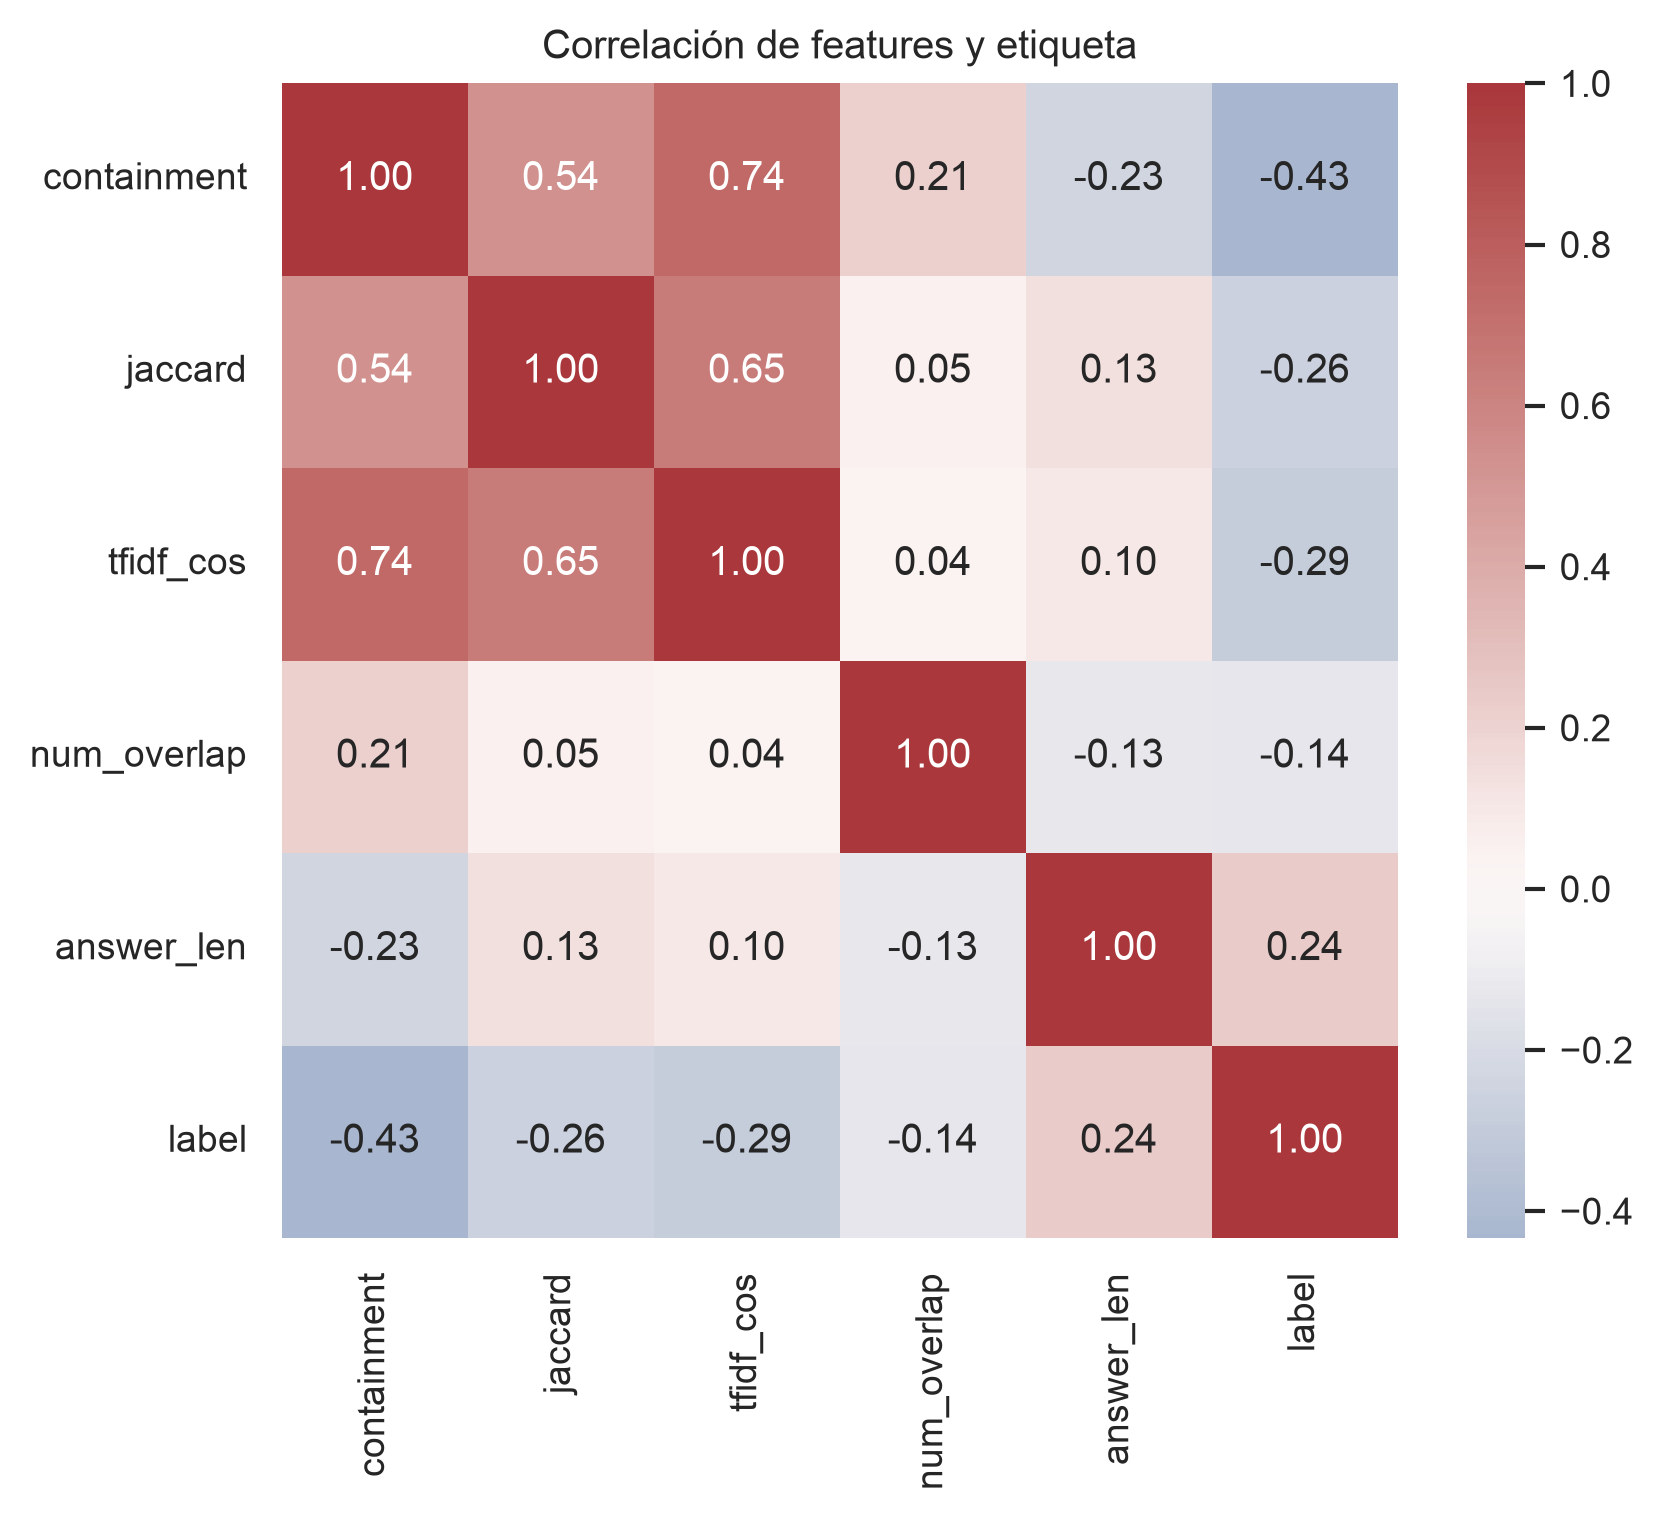
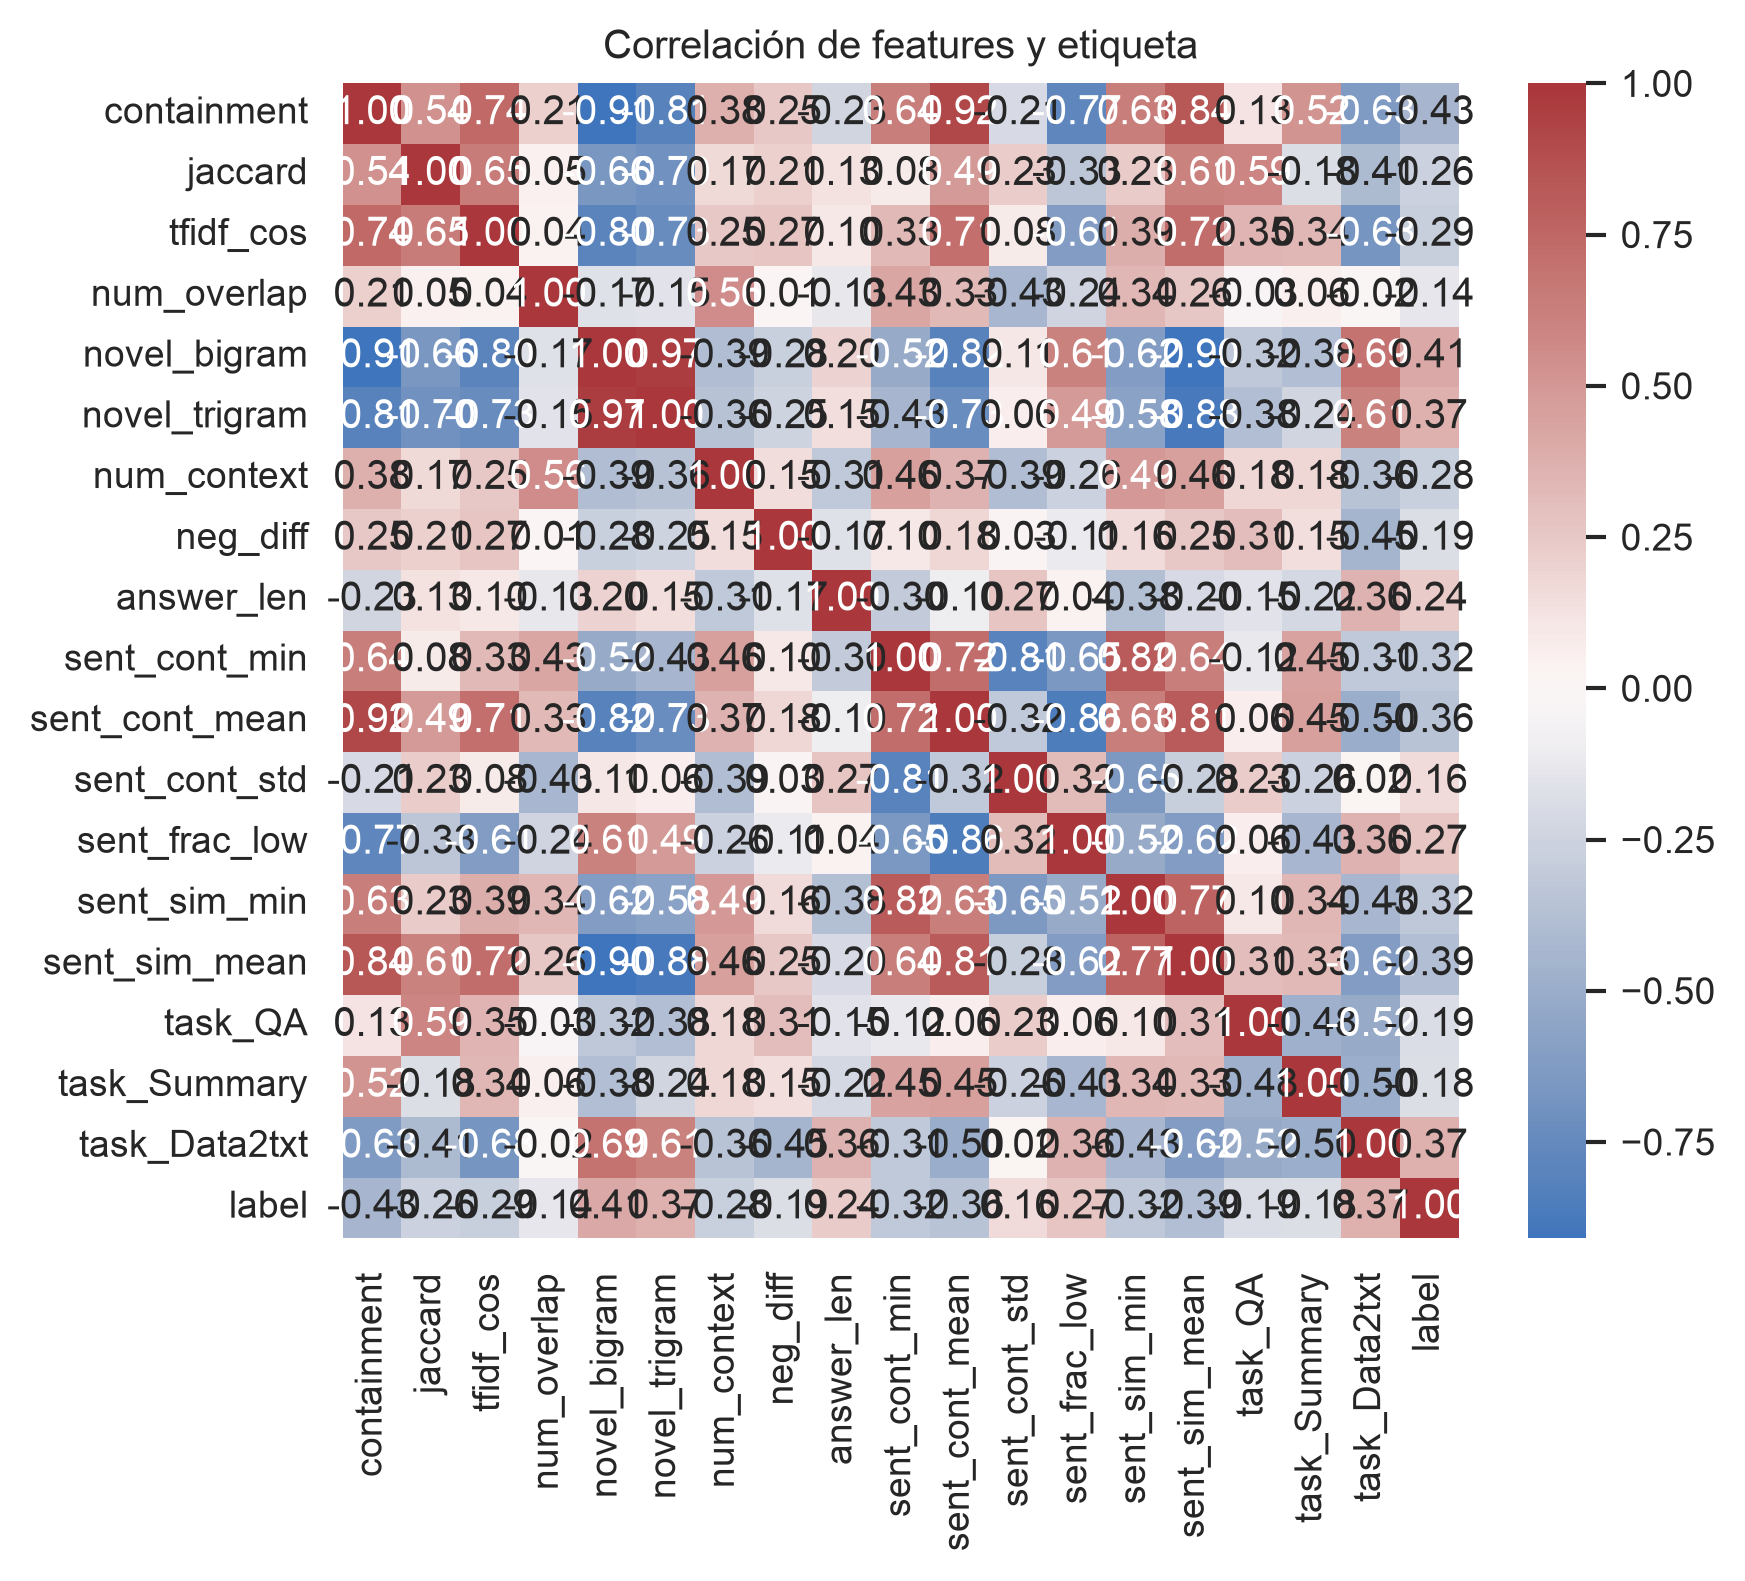
fix: regenera figuras EDA obsoletas (eran de la época de 5 features)
eda_separabilidad_features y eda_correlacion mostraban solo las 5 features
escalares originales; ahora reflejan las 18. En la separabilidad se excluyen las
one-hot de tarea (binarias, su KDE no informa) y se da eje Y independiente por
panel para que cada distribución se lea a su escala. Recompila el informe.

diff --git a/scripts/visualization.py b/scripts/visualization.py
@@ -68,13 +68,16 @@ def main() -> None:
     ax.set_title("Correlación de features y etiqueta")
     savefig(fig, "eda_correlacion")
 
-    # 6. Separabilidad por clase de cada feature.
-    long = X.assign(clase=df["clase"].values).melt(
+    # 6. Separabilidad por clase de cada feature (solo las continuas; las
+    # one-hot de tarea son binarias y su KDE no informa).
+    cont = [c for c in X.columns if not c.startswith("task_")]
+    long = X[cont].assign(clase=df["clase"].values).melt(
         id_vars="clase", var_name="feature", value_name="valor"
     )
     g = sns.displot(
         long, x="valor", hue="clase", col="feature", col_wrap=3,
-        kind="kde", common_norm=False, fill=True, height=2.6, facet_kws={"sharex": False},
+        kind="kde", common_norm=False, fill=True, height=2.4,
+        facet_kws={"sharex": False, "sharey": False},
     )
     g.set_titles("{col_name}")
     savefig(g.figure, "eda_separabilidad_features")